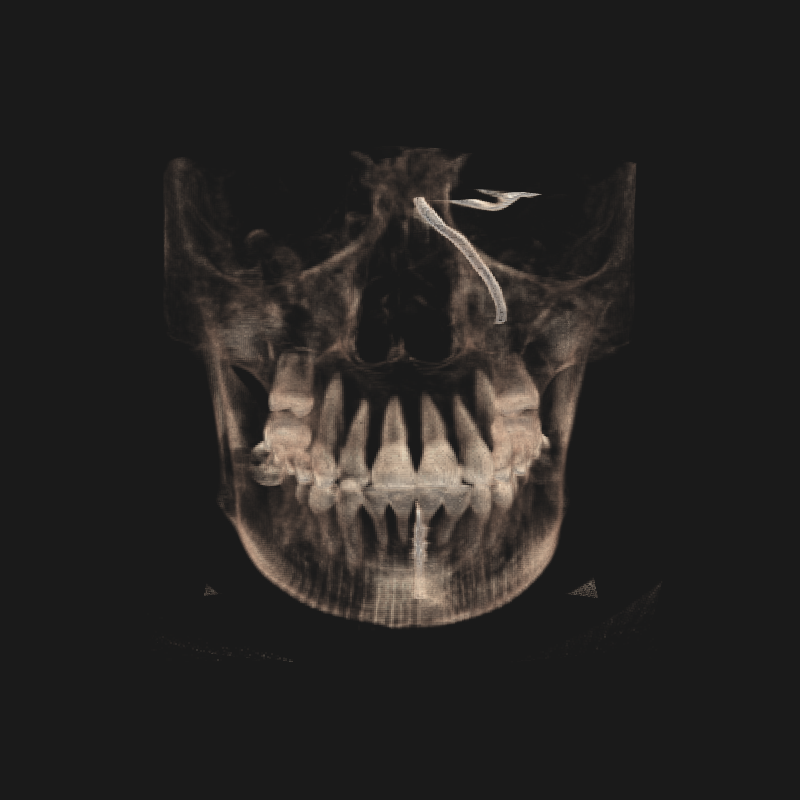
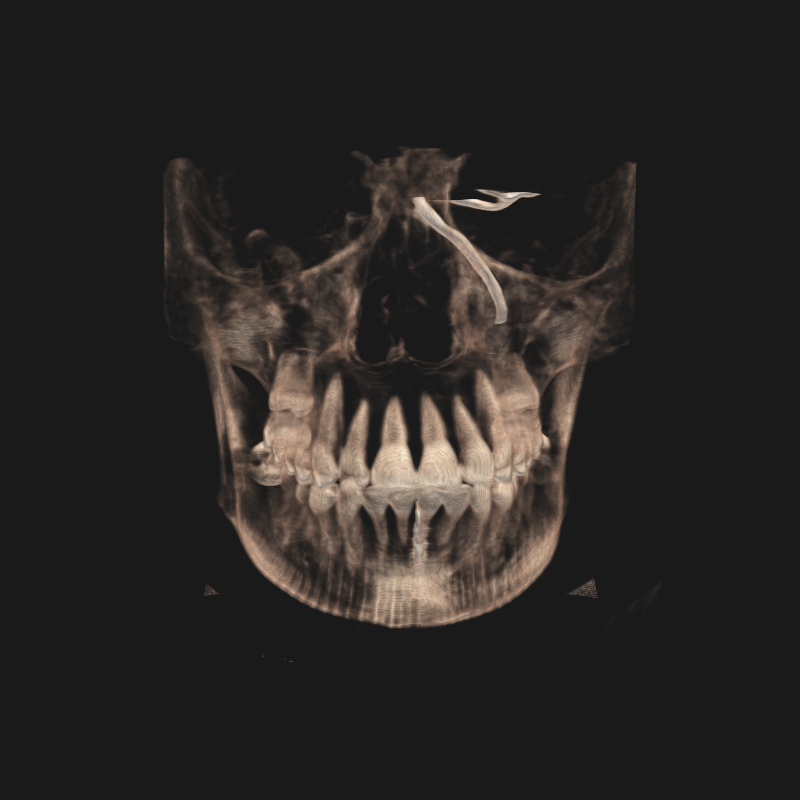
tweak vista version

diff --git a/example-visualizations/skull/skull-vis-vista.py b/example-visualizations/skull/skull-vis-vista.py
@@ -6,40 +6,48 @@ from matplotlib.colors import LinearSegmentedColormap
 volume = pv.read('skull.nhdr')
 print('Loaded volume with dimensions:', volume.dimensions)
 
-# Opacity transfer function (tuned for bone-like structures)
-# Maps scalar values to opacity
-opacity = np.zeros(256)
-# 0-50: fully transparent
-# 50-80: ramp up to 0.05
-for i in range(50, 80):
-    opacity[i] = 0.05 * (i - 50) / (80 - 50)
-# 80-120: ramp up to 0.3
-for i in range(80, 120):
-    opacity[i] = 0.05 + 0.25 * (i - 80) / (120 - 80)
-# 120-255: ramp up to 0.8
-for i in range(120, 256):
-    opacity[i] = 0.3 + 0.5 * (i - 120) / (255 - 120)
+# Transfer functions for bone-like structures, defined as
+# (scalar_value, ...) control points interpolated over 0-255.
+opacity_points = [
+    #  scalar  opacity
+    (    0,    0.0 ),
+    (   50,    0.0 ),
+    (   80,    0.05),
+    (  120,    0.3 ),
+    (  255,    0.8 ),
+]
 
-# PyVista's apply_opacity assigns directly to uint8 lookup table when
-# the list has exactly n_colors elements, so scale from 0.0-1.0 to 0-255.
-opacity_mapping = (opacity * 255).astype(np.uint8).tolist()
+color_points = [
+    #  scalar  R    G    B
+    (    0,    0.0, 0.0, 0.0),  # black
+    (   80,    0.9, 0.7, 0.6),  # warm bone
+    (  120,    1.0, 0.9, 0.8),  # light bone
+    (  255,    1.0, 1.0, 1.0),  # white
+]
+
+# Build opacity lookup: interpolate control points, then scale to uint8
+# (PyVista assigns 256-element lists directly to its uint8 lookup table).
+scalars = np.arange(256)
+op_x = [p[0] for p in opacity_points]
+op_y = [p[1] for p in opacity_points]
+opacity = np.interp(scalars, op_x, op_y)
+opacity_mapping = np.round(opacity * 255).astype(np.uint8).tolist()
+
+# Build colormap from control points
+cmap = LinearSegmentedColormap.from_list('bone', [
+    (p[0] / 255, (p[1], p[2], p[3])) for p in color_points
+])
 
 # Set up the plotter for off-screen rendering
 plotter = pv.Plotter(off_screen=True, window_size=(800, 800))
 plotter.background_color = (0.1, 0.1, 0.1)
 
 # Add volume with custom transfer functions
-# PyVista's add_volume wraps VTK volume rendering
 actor = plotter.add_volume(
     volume,
     scalars=volume.active_scalars_name,
     opacity=opacity_mapping,
-    cmap=LinearSegmentedColormap.from_list('bone', [
-        (0/255,   (0.0, 0.0, 0.0)),   # 0: black
-        (80/255,  (0.9, 0.7, 0.6)),   # 80: warm bone
-        (120/255, (1.0, 0.9, 0.8)),   # 120: light bone
-        (255/255, (1.0, 1.0, 1.0)),   # 255: white
-    ]),
+    cmap=cmap,
     clim=[0, 255],
     shade=True,
     ambient=0.2,
@@ -47,7 +55,9 @@ actor = plotter.add_volume(
     specular=0.2,
     show_scalar_bar=False,
     mapper='gpu',
+    opacity_unit_distance=1.0,
 )
+actor.prop.interpolation_type = 'linear'
 
 # Front-on view: look down the -X axis with Z up
 plotter.view_yz(negative=True)
